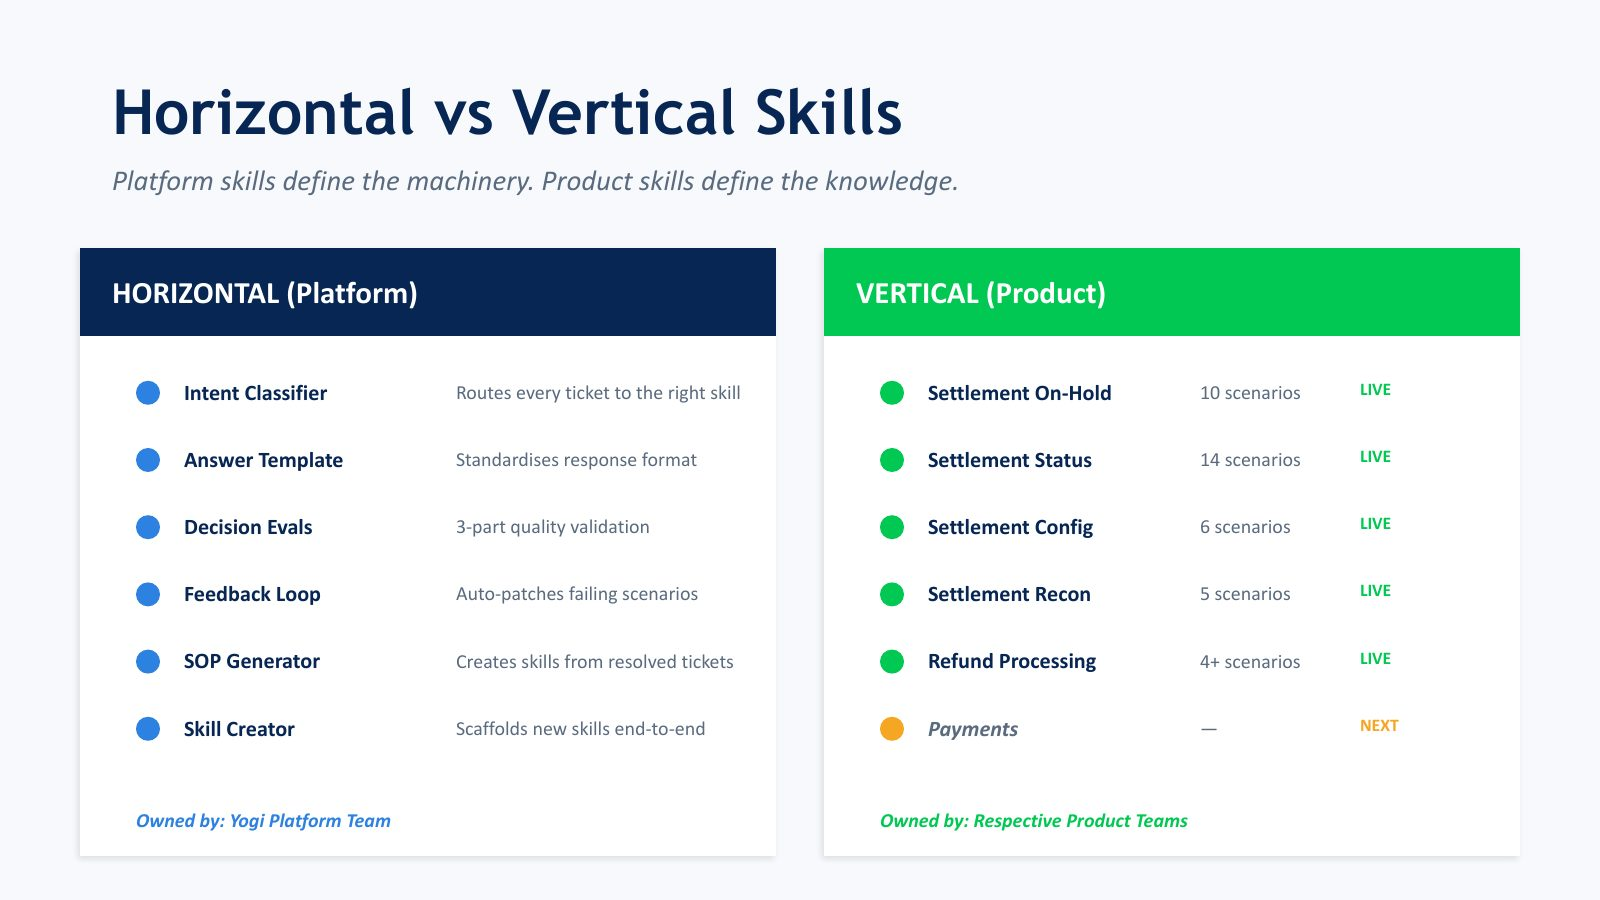
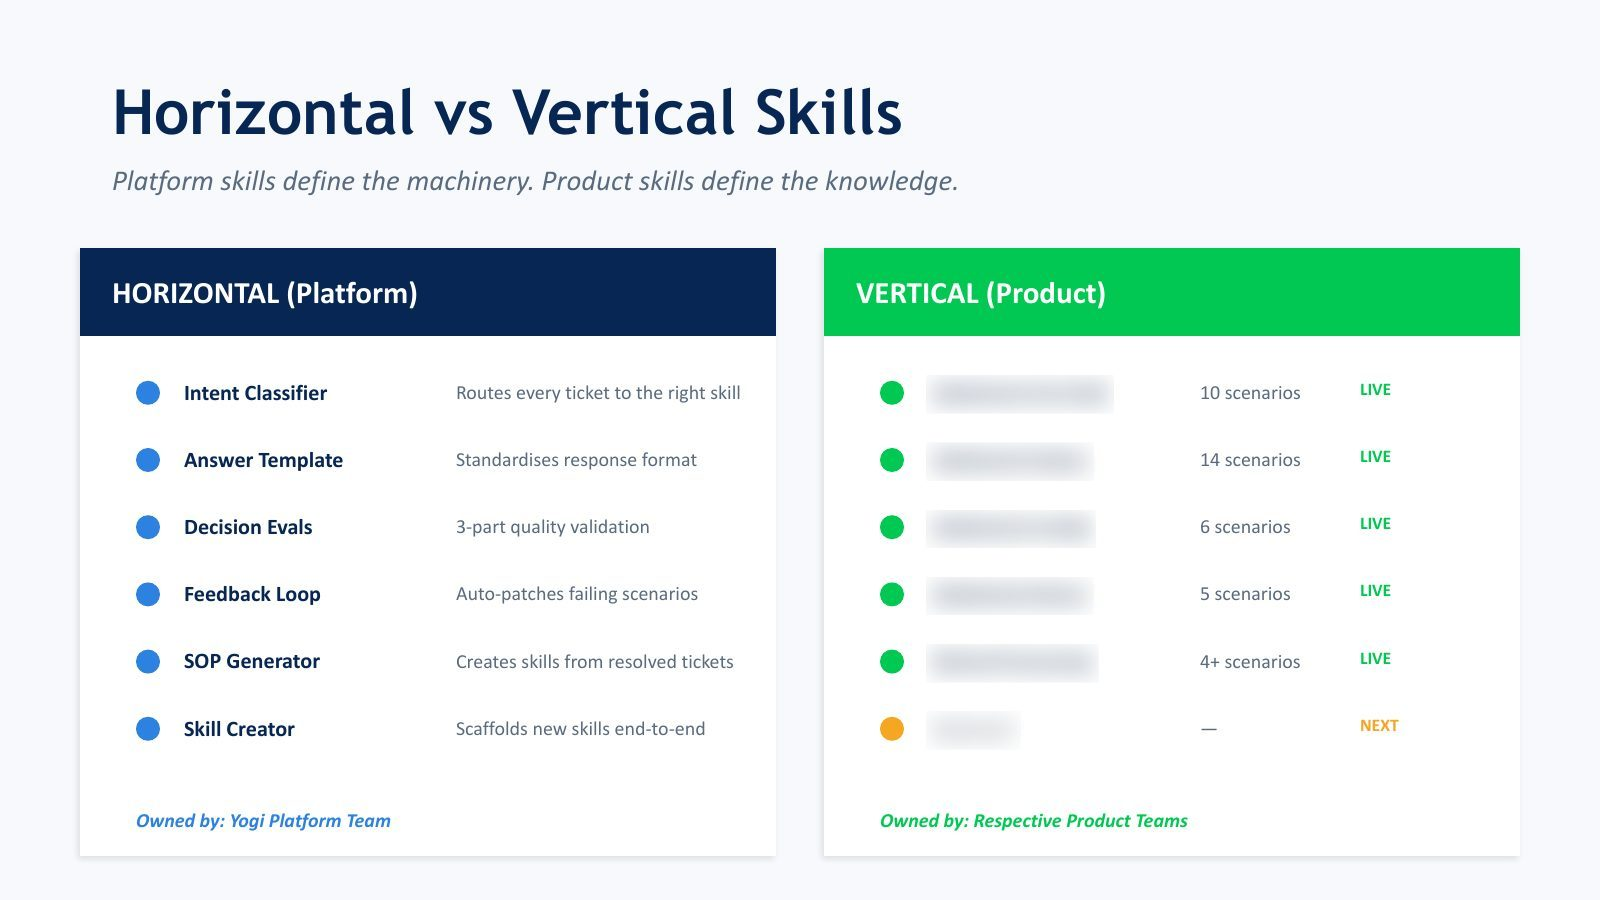
Scaling CX: blur the product names; deck.js --blur
KB asked to blur the actual product names (go-live checklist). deck.js
gains --blur <regex> for PDF decks: pdftotext -bbox-layout finds the
matching words, tools/deck-blur.mjs blurs just those boxes on the page
image in headless Chromium (shared ~/Code playwright), and it refuses
when a pattern matches nothing. Scaling CX slides 4 and 5 now hide the
settlement/refund/payments names; counts and layout stay.

diff --git a/tools/deck.js b/tools/deck.js
@@ -20,17 +20,23 @@ const [src, out, ...rest] = process.argv.slice(2);
 if (!src || !out) { console.error("usage: node tools/deck.js <source.html> <out.html> [--drop 2,3] [--cut <regex>]"); process.exit(1); }
 const drop = new Set();
 const cuts = [];
+const blurs = []; // PDF only: words to blur on the rendered pages (KB, 2026-10-03: product names)
 for (let i = 0; i < rest.length; i++) {
   if (rest[i] === "--drop") rest[++i].split(",").forEach((n) => drop.add(+n));
   else if (rest[i] === "--cut") cuts.push(new RegExp(rest[++i], "gs"));
+  else if (rest[i] === "--blur") blurs.push(new RegExp(rest[++i], "i"));
 }
 const die = (msg) => { console.error(`deck.js: ${msg}`); process.exit(1); };
 
 // A PDF deck (exported slides, often image-only) → an image deck that speaks the
 // same protocol to the viewer. Only the pages named by --pages are rendered, so a
 // subset is the default, and the PDF's text never ships (placeholders, notes).
-//   node tools/deck.js <deck.pdf> content/talks/<slug>/slides.html --pages 1,5,6 [--titles "A|B|C"]
+//   node tools/deck.js <deck.pdf> content/talks/<slug>/slides.html --pages 1,5,6 [--titles "A|B|C"] [--blur <regex>]…
 // Titles feed the viewer's rail; without --titles each page's first line of text is used.
+// --blur finds every text line on the chosen pages that matches (pdftotext -bbox-layout), blurs
+// those boxes on the rendered image, and refuses if a pattern matches nothing. The blur runs in
+// headless Chromium (~/Code/node_modules/playwright, shared across repos), because the image
+// edit needs a canvas and nothing else here has one. Image-only pages have no text to match.
 if (/\.pdf$/i.test(src)) {
   const path = require("path");
   const { execFileSync } = require("child_process");
@@ -51,8 +57,35 @@ if (/\.pdf$/i.test(src)) {
     const text = execFileSync("pdftotext", ["-f", p, "-l", p, src, "-"].map(String)).toString().split("\n").map((x) => x.trim()).find(Boolean) || "";
     const title = given[k] || text;
     if (!title) die(`page ${p} has no text to title it; pass --titles`);
-    return { img: `${name}.jpg`, title };
+    return { img: `${name}.jpg`, title, page: p };
   });
+  if (blurs.length) {
+    const hits = blurs.map(() => 0), jobs = [];
+    for (const s of slides) {
+      const xml = execFileSync("pdftotext", ["-bbox-layout", "-f", s.page, "-l", s.page, src, "-"].map(String)).toString();
+      const pw = +xml.match(/<page width="([\d.]+)"/)[1], ph = +xml.match(/<page[^>]* height="([\d.]+)"/)[1];
+      const rects = [];
+      for (const line of xml.match(/<line[^>]*>[\s\S]*?<\/line>/g) || []) {
+        const words = [...line.matchAll(/<word xMin="([\d.]+)" yMin="([\d.]+)" xMax="([\d.]+)" yMax="([\d.]+)">([^<]*)<\/word>/g)];
+        let at = 0; const spans = words.map((w) => { const a = at; at += w[5].length + 1; return [a, a + w[5].length]; });
+        const text = words.map((w) => w[5]).join(" ");
+        blurs.forEach((re, b) => {
+          for (const m of text.matchAll(new RegExp(re.source, "gi"))) { // only the matched words, not the whole line
+            const ws = words.filter((w, k) => spans[k][0] < m.index + m[0].length && spans[k][1] > m.index);
+            if (!ws.length) continue;
+            hits[b]++;
+            rects.push({ x0: Math.min(...ws.map((w) => +w[1])) / pw, y0: Math.min(...ws.map((w) => +w[2])) / ph,
+                         x1: Math.max(...ws.map((w) => +w[3])) / pw, y1: Math.max(...ws.map((w) => +w[4])) / ph });
+          }
+        });
+      }
+      if (rects.length) jobs.push({ file: path.join(dir, s.img), rects });
+      if (rects.length) s.title = blurs.reduce((t, re) => t.replace(new RegExp(re.source, "gi"), "…"), s.title);
+    }
+    blurs.forEach((re, b) => { if (!hits[b]) die(`--blur ${re.source}: matched no text on pages ${pages.join(",")}`); });
+    const blurScript = path.join(__dirname, "deck-blur.mjs");
+    execFileSync("node", [blurScript, JSON.stringify(jobs)], { stdio: "inherit" });
+  }
   fs.writeFileSync(out, `<!doctype html>
 <html lang="en">
 <head>
@@ -104,7 +137,7 @@ ${slides.map((s, k) => `<section class="slide${k ? "" : " on"}" id="s${k + 1}" d
 </html>
 `);
   const kb = fs.readdirSync(dir).filter((f) => /^slide-\d+\.jpg$/.test(f)).reduce((a, f) => a + fs.statSync(path.join(dir, f)).size, 0) >> 10;
-  console.log(`deck.js: pages ${pages.join(",")} of ${total} → ${out} + ${slides.length} images (${kb} KB)`);
+  console.log(`deck.js: pages ${pages.join(",")} of ${total} → ${out} + ${slides.length} images (${kb} KB)${blurs.length ? `, blurred: ${blurs.map((r) => r.source).join(" · ")}` : ""}`);
   slides.forEach((s, k) => console.log(`  ${k + 1}. ${s.title}`));
   process.exit(0);
 }

diff --git a/CLAUDE.md b/CLAUDE.md
@@ -165,7 +165,11 @@ slides carry the talk, so there are no long write-ups.
   with the same viewer protocol, so a PDF's placeholders and unused pages never
   ship. For the record: Harness = Masterclass pages 1,5,6,8,9 (KB's section plus
   the cover); Scaling CX = skills-journey pages 1,3–6 (2 and 7 are `[XX]`
-  placeholders; KB added the title page, 1, on 2026-10-03). An HTML deck: it strips
+  placeholders; KB added the title page, 1, on 2026-10-03), with the product names blurred
+  (KB, 2026-10-03): `--titles "Yogi: The AI Journey|The Evolution — 5 Phases, 1 Destination|Skills Architecture — How It Works|Horizontal vs Vertical Skills|The Replicable Playbook" --blur "Settlements? (On-Hold|Status|Config|Recon)" --blur "Refund Processing" --blur "Payments" --blur "Settlements"`.
+  `--blur <regex>` (PDF decks) finds the matching words with `pdftotext -bbox-layout` and blurs
+  just those boxes on the page image, via `tools/deck-blur.mjs` (headless Chromium from the
+  shared `~/Code/node_modules/playwright`). It refuses if a pattern matches nothing. An HTML deck: it strips
   speaker notes, drops named slides (`--drop 2,3`), removes extra matches
   (`--cut <regex>`), renumbers, and adds the embed shim that talks to the
   viewer. It refuses when the deck's shape surprises it. Sources stay in
